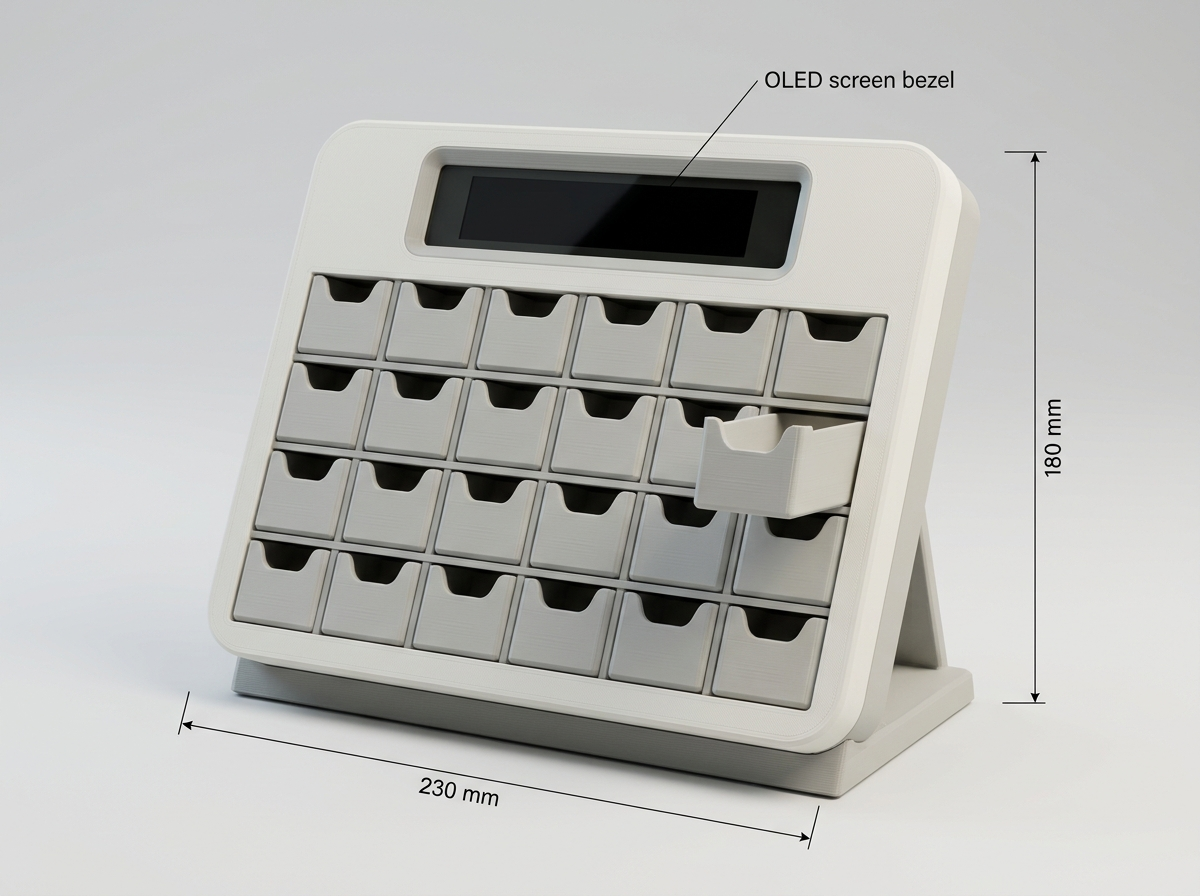
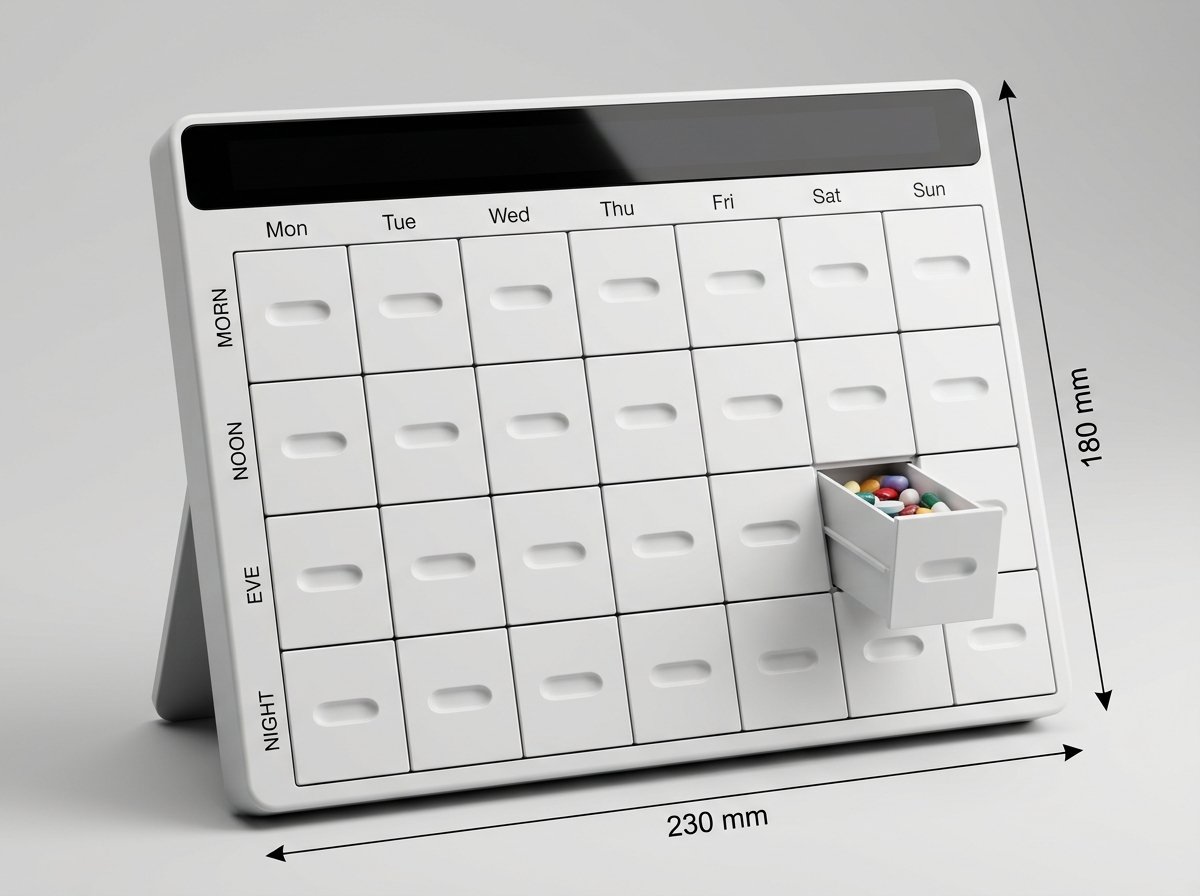
feat: update CalenDIA+ 3D render to 100% sealed flush drawers and luxury medical finish

diff --git a/ban_ve_chi_tiet_cad_calendia_plus.md b/ban_ve_chi_tiet_cad_calendia_plus.md
@@ -69,19 +69,23 @@
 
 ---
 
-### PART [2]: Hệ Thống 28 Ngăn Kéo Mini Lấy Thuốc (28x Miniature Pill Drawers)
+### PART [2]: Hệ Thống 28 Ngăn Kéo Mini Lấy Thuốc (28x Miniature Pill Drawers) — Thiết Kế Kín Khít Chống Ẩm & Bụi
 
-* **Chức năng:** Chứa các viên thuốc cữ uống cho từng buổi; người dùng kéo rút ra để lấy thuốc; tích hợp rãnh truyền sáng giúp toàn bộ hốc phát sáng ấm khi đến giờ uống.
-* **Số lượng:** 28 chiếc giống nhau (hoặc in đồng loạt trên 1 bàn in).
+* **Chức năng:** Chứa các viên thuốc cữ uống độc lập cho từng buổi; người dùng kéo rút ra để lấy thuốc; thiết kế phẳng lì (flush) kín khít 100% để ngăn không khí, hơi ẩm và bụi bẩn làm giảm chất lượng thuốc.
+* **Số lượng:** 28 chiếc giống nhau (hoặc in đồng loạt trên bàn in 3D).
 * **Kích thước phủ bì mỗi ngăn kéo:** Rộng 26.0 mm × Cao 20.0 mm × Dài (Sâu) 48.0 mm.
 * **Kích thước lọt lòng khoang chứa thuốc:** Rộng 22.4 mm × Sâu 42.0 mm × Cao 16.5 mm (thể tích ~15.5 cm³, chứa vừa 6-8 viên nang cỡ 00 hoặc viên nén lớn).
-* **Kết cấu cơ khí trên từng ngăn kéo:**
-  * **Mặt trước (Mặt bích tay nắm):** Kích thước 26.0 mm × 20.0 mm, bo viền R = 2.0 mm. Giữa mặt có hốc lõm công thái học hình viên thuốc (Pill-shaped finger pocket) rộng 16.0 mm × cao 7.0 mm × sâu 2.5 mm giúp đầu ngón tay tì kéo êm ái mà không cần núm vặn rườm rà.
+* **Kết cấu cơ khí kín khít & thẩm mỹ sang trọng:**
+  * **Mặt trước phẳng kín đặc 100% (Solid Flush Faceplate):** Kích thước 26.0 mm × 20.0 mm. Tuyệt đối **KHÔNG có khe hở, lỗ khoét hay vết cắt rãnh hở miệng chữ U** (như các hộp nhựa đựng ốc vít/linh kiện thông thường).
+  * **Hốc tì tay dập chìm kín đáy (Blind Recessed Ergonomic Pocket):** Ở chính giữa mặt trước có một vết lõm công thái học hình viên thuốc (Pill-shaped finger pocket) rộng 16.0 mm × cao 7.0 mm × sâu 2.5 mm, đáy liền khối dày 2.0 mm kín tuyệt đối. Người dùng dùng đầu ngón tay tì nhẹ kéo khay ra dễ dàng mà không phá vỡ độ kín của hộp.
+  * **Gờ chắn bụi mê cung kép (Labyrinth Overlap Dust Seal):** Chu vi mặt bích trước được thiết kế giật cấp rộng hơn thân khay 1.0 mm mỗi phía (Flange Lip). Khi khay đóng hết hành trình, gờ này sẽ áp sát phẳng lì vào gờ giật cấp của khung Part 1, che kín toàn bộ khe hở cơ khí trượt (hairline seam Δ = 0.35 mm), tạo thành lớp đệm kín chống ẩm và chống bụi xâm nhập vào viên thuốc.
   * **Hai bên sườn hông:** Đúc liền gân trượt nổi (Slide Guide Rib) dày 1.2 mm, cao 2.0 mm chạy dọc 40 mm chiều dài.
   * **Đuôi ngăn kéo (Chống tuột & Khóa hành trình):**
     * Có 2 vấu ngàm móc chống tuột (Pull-out Stopper Lugs) nhô lên 1.2 mm ở cạnh trên đuôi khay. Khi kéo ra tới 32 mm, vấu chạm vào gờ chặn của Part 3 ngăn không cho khay rơi xuống đất, nhưng khi cần rửa hộp thì bóp nhẹ khay có thể rút rời ra ngoài.
     * Đáy đuôi có hốc dẹt đón ánh sáng từ đèn LED WS2812B chiếu thẳng vào lòng khay.
-* **Vật liệu:** Nhựa PETG màu trắng đục hoặc xám đục (an toàn tiếp xúc thực phẩm, không mùi, chịu cọ xát cơ học cao).
+* **Vật liệu & Xử lý bề mặt sang trọng:**
+  * Nhựa PETG Food-grade màu trắng ngọc trai (Warm Pearl White) hoặc xám sứ mờ.
+  * In mặt trước úp xuống bàn in PEI tấm phẳng mịn mờ (Satin/Textured Sheet) để bề mặt ngoài cùng lỳ mịn như sản phẩm đúc khuôn công nghiệp cao cấp của Apple hoặc Braun, loại bỏ hoàn toàn các vết sọc in 3D thô.
 
 ---
 
